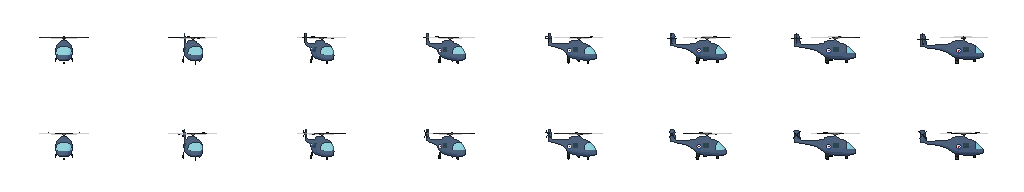
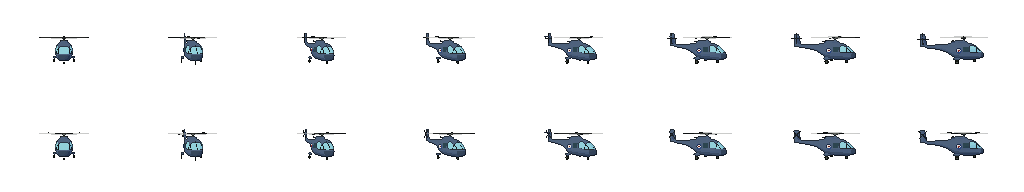
el Sea Lynx mas fiel: parabrisas con parantes, ventanas de las puertas, el radomo bajo la trompa, el tren en sus muñones y el estabilizador de un solo lado

diff --git a/tools/blender/modelos_helos.py b/tools/blender/modelos_helos.py
@@ -232,10 +232,19 @@ def wessex(T, K, ph='0'):
 def seaLynx(T, K, ph='0'):
     ph = int(ph)
     raiz = _raiz(T, 'Sea Lynx')
+    # (15/10, "mas fiel") el PARABRISAS partido por sus parantes, las ventanas grandes de las PUERTAS de
+    # la cabina, el RADOMO del Sea Spray bajo la trompa, y la ventana de la cabina de carga
+    OSC_L = '#262d36'
     piel = mat_pintura(K, 'pintura', dict(arriba=['#4d6280'], panza='#3e5069',
-                                          marcas=[dict(z=(-2.00, -1.35), y=(-0.05, 0.62), color=CANOPY, arriba=False),
-                                                  dict(z=(-0.75, -0.25), y=(0.05, 0.45), x=(0.55, 1.0), color=VIDRIO_OSC, arriba=False)]))
-    oscuro = K['mat_cel']('oscuro', '#262d36')
+                                          marcas=[dict(z=(-2.00, -1.35), y=(0.02, 0.62), color=CANOPY, arriba=False),
+                                                  dict(z=(-1.35, -0.85), y=(0.05, 0.55), x=(0.50, 1.0), color=CANOPY, arriba=False),
+                                                  dict(z=(-0.70, -0.25), y=(0.05, 0.45), x=(0.55, 1.0), color=VIDRIO_OSC, arriba=False),
+                                                  dict(z=(-2.10, -1.70), y=(-0.60, -0.08), color='#36475e', arriba=False),
+                                                  dict(z=(-2.00, -0.85), y=(0.02, 0.62), x=(-0.025, 0.025), sim=False, color=OSC_L, arriba=False),
+                                                  dict(z=(-2.00, -1.35), y=(0.02, 0.62), x=(0.42, 0.47), color=OSC_L, arriba=False),
+                                                  dict(z=(-1.38, -1.32), y=(0.02, 0.62), x=(0.45, 1.0), color=OSC_L, arriba=False),
+                                                  dict(z=(-2.00, -0.85), y=(-0.02, 0.03), color=OSC_L, arriba=False)]))
+    oscuro = K['mat_cel']('oscuro', OSC_L)
     _subdiv(loft('fuselaje', [(-2.08, 0.08, 0.08, -0.32), (-1.88, 0.36, 0.30, -0.26), (-1.50, 0.58, 0.52, -0.12),
                               (-1.00, 0.72, 0.72, 0.03), (-0.30, 0.75, 0.76, 0.07), (0.40, 0.70, 0.70, 0.09),
                               (0.90, 0.50, 0.48, 0.22), (1.40, 0.30, 0.28, 0.35), (2.45, 0.20, 0.18, 0.40),
@@ -243,13 +252,18 @@ def seaLynx(T, K, ph='0'):
     _subdiv(loft('motores', [(-0.65, 0.05, 0.05, 0.74), (-0.45, 0.42, 0.20, 0.80), (0.40, 0.40, 0.20, 0.80),
                              (0.75, 0.06, 0.06, 0.74)], raiz, piel, n=14, expo=2.4, cerrar=(True, True)), 1)
     deriva(raiz, piel, 0.35, 1.50, 2.70, 0.70, 2.95, 0.42, 0.14)
-    superficie('estab', [(0.0, 2.95, 0.36, 0.12, 1.22), (0.55, 3.02, 0.26, 0.12, 1.22)], raiz, piel, eje='x', espejo=True)
+    # el estabilizador va de UN solo lado, a estribor (el rotor de cola, a babor)
+    superficie('estab', [(0.10, 2.95, 0.36, 0.12, 1.22), (0.65, 3.02, 0.26, 0.12, 1.22)], raiz, piel, eje='x')
     rotor_cola(raiz, K, 0.48, 4, 0.15, 1.05, 3.10, ph)
     rueda(raiz, K, 0, -0.78, -1.25, 0.15, 0.11)
     _pieza('pata_nariz', raiz, oscuro, (0.06, 0.40, 0.06), (0, -0.55, -1.25))
     for sg in (-1, 1):
-        rueda(raiz, K, sg * 0.72, -0.78, 0.25, 0.19, 0.13)
-        _pieza('pata', raiz, oscuro, (0.06, 0.35, 0.30), (sg * 0.66, -0.55, 0.25))
+        # el tren principal en sus MUÑONES, abiertos hacia afuera, y los escapes de los motores arriba
+        _subdiv(loft('munon', [(-0.05, 0.05, 0.05, -0.50), (0.10, 0.16, 0.12, -0.52), (0.45, 0.16, 0.12, -0.52), (0.60, 0.05, 0.05, -0.50)],
+                     raiz, piel, n=10, expo=2.4, cerrar=(True, True), x0=sg * 0.78), 1)
+        rueda(raiz, K, sg * 0.86, -0.78, 0.25, 0.19, 0.13)
+        _pieza('pata', raiz, oscuro, (0.06, 0.30, 0.06), (sg * 0.84, -0.62, 0.25), (0, 0, sg * 0.30))
+        elipsoide('escape', (sg * 0.30, 0.86, 0.62), (0.08, 0.07, 0.14), raiz, oscuro, seg=10, anillos=6)
     escarapela(raiz, K, 0.745, 0.15, 0.10, 0.23)
     rotor(raiz, K, 2.03, 4, 1.2, -0.3, ph, cuerda=0.15)
     return raiz
